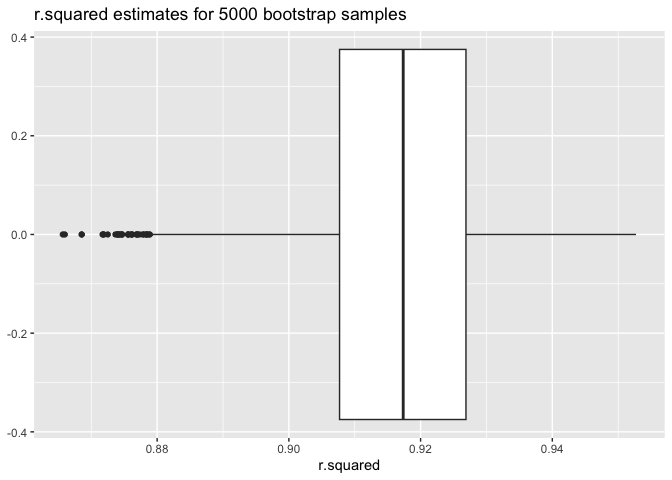
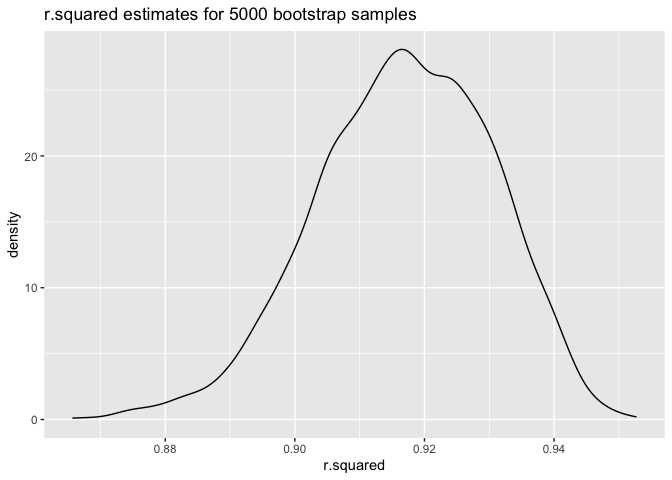
Finished revision and modified plots.

diff --git a/p8105_hw6_mf3593.md b/p8105_hw6_mf3593.md
@@ -79,15 +79,7 @@ weather_df =
     tmin = tmin / 10,
     tmax = tmax / 10) |>
   select(name, id, everything())
-```
 
-    ## using cached file: /Users/miaofu/Library/Caches/org.R-project.R/R/rnoaa/noaa_ghcnd/USW00094728.dly
-
-    ## date created (size, mb): 2023-11-28 15:42:24.980694 (8.544)
-
-    ## file min/max dates: 1869-01-01 / 2023-11-30
-
-``` r
 boot_sample = function(df) {
   sample_frac(df, replace = TRUE)
 }
@@ -109,17 +101,7 @@ log_multiple=boot_straps|>
   filter(term %in% c("tmin","prcp"))|>
   group_by(strap_number)|>
   summarise(log_b1_b2=log(prod(estimate)))
-```
 
-    ## Warning: There were 3361 warnings in `summarise()`.
-    ## The first warning was:
-    ## ℹ In argument: `log_b1_b2 = log(prod(estimate))`.
-    ## ℹ In group 2: `strap_number = 2`.
-    ## Caused by warning in `log()`:
-    ## ! NaNs produced
-    ## ℹ Run `dplyr::last_dplyr_warnings()` to see the 3360 remaining warnings.
-
-``` r
 log_multiple|>
   summarise(count=sum(is.na(log_b1_b2)),
             n=n(),
@@ -143,14 +125,10 @@ R=boot_straps|>
 
 combined=R|>
   full_join(log_multiple)
-```
 
-    ## Joining with `by = join_by(strap_number)`
-
-``` r
 combined|>
   ggplot(aes(x=r.squared))+
-  geom_boxplot()+
+  geom_density()+
   labs(
     title="r.squared estimates for 5000 bootstrap samples"
   )
@@ -161,13 +139,11 @@ combined|>
 ``` r
 combined|>
   ggplot(aes(x=log_b1_b2))+
-  geom_boxplot()+
+  geom_density()+
   labs(
     title="log(beta1*beta2) estimates for 5000 bootstrap samples"
   )
 ```
-
-    ## Warning: Removed 3361 rows containing non-finite values (`stat_boxplot()`).
 
 ![](p8105_hw6_mf3593_files/figure-gfm/unnamed-chunk-2-2.png)<!-- -->
 
@@ -176,19 +152,18 @@ quantile_r=quantile(pull(combined,r.squared),c(0.025,0.975))
 quantile_log=quantile(pull(combined,log_b1_b2),c(0.025,0.975),na.rm=TRUE)
 ```
 
-The distribution of $\hat r^2$ has median around 0.92 and is
-left-tailed. There are some outliers with too small r.squared value.
-Since majority of the data has r_squared value closer to 1, indicating
-that tmin and prcp well explained the proportion of variance in tmax.
-The distribution of $log(\hat {\beta_1}\cdot\hat {\beta_2})$ has median
-aroung -6 and is left-tailed with some outliers that are too small.
-There are 3361 NaN values due to negative products of $\beta_1$ and
-$\beta_2$ corresponding to a portion of 67% of the entire 5000 bootstrap
-samples. Using the remaining estimates, we see all of the log values are
-negative, implying the estimated product of the coefficients is less
-than 1. The negative interaction suggests that the join effect of tmin
-and prcp on tmax is smaller than the product of their individual
-effects.
+The distribution of $\hat r^2$ has peak around 0.92 and is left-tailed.
+Since majority of the data has r_squared value closer to 1 and the 95%
+CI for r_squared is (0.889,0.941), indicating that tmin and prcp well
+explained the proportion of variance in tmax. The distribution of
+$log(\hat {\beta_1}\cdot\hat {\beta_2})$ has peak around -6 and is
+left-tailed. There are 3361 NaN values due to negative products of
+$\beta_1$ and $\beta_2$ corresponding to a portion of 67% of the entire
+5000 bootstrap samples. Using the remaining estimates, we see all of the
+log values are negative and the 95% CI for log_b1_b2 is (-8.98,-4.6),
+implying the estimated product of the coefficients is less than 1. The
+negative interaction suggests that the join effect of tmin and prcp on
+tmax is smaller than the product of their individual effects.
 
 ## Problem 3
 
@@ -225,22 +200,31 @@ child_bw=read.csv("birthweight.csv")|>
       9~"Unknown"
     )
   )|>
-  na.omit(df)
+  na.omit(df)|>
+  mutate(
+    babysex=as.factor(babysex),
+    frace=as.factor(frace),
+    malform=as.factor(malform),
+    mrace=as.factor(mrace)
+  )
 ```
 
 I would propose a multiple linear regression model for birth weight.  
-Hypothesis: Child birthweight is affected by babysex, gestational age in
-weeks, and presence of malformations that could affect weight.
+Hypothesis: Child birth weight is affected by babysex, gestational age
+in weeks, and presence of malformations that could affect weight.
 
 ``` r
 linear_mod = lm(bwt ~ babysex+gaweeks+malform, data = child_bw)
 child_bw |> 
   add_predictions(linear_mod) |> 
   add_residuals(linear_mod)|>
-  ggplot(aes(x = gaweeks, y = bwt,color=malform)) + 
-  geom_point() +
-  facet_wrap(~babysex,scale="free")+
-  geom_line(aes(y = pred), color = "blue")
+  ggplot(aes(x = pred, y = resid)) + 
+  geom_point()+
+  labs(
+    title="Residuals against fitted values",
+    x="fitted values",
+    y="residuals"
+  )
 ```
 
 ![](p8105_hw6_mf3593_files/figure-gfm/unnamed-chunk-4-1.png)<!-- -->
@@ -248,7 +232,7 @@ child_bw |>
 Based on the variables, I think babysex, gestational age and
 malformations that may affect baby birth weight are potential predictors
 for the baby birth weight. Thus, I made a multiple linear regression
-model with gestational age on x-axis and baby birthweight on y-axis.
+model using those as predictors.
 
 ``` r
 set.seed(2)
@@ -266,7 +250,7 @@ cv_df =
   mutate(
     my_mod  = map(train, \(df) lm(bwt ~ babysex+gaweeks+malform, data = df)),
     alt_mod_1  = map(train, \(df) lm(bwt ~ blength+gaweeks, data=df)),
-    alt_mod_2  = map(train, \(df) lm(bwt ~ bhead+blength+babysex+bhead*blength*babysex, data=df))) |> 
+    alt_mod_2  = map(train, \(df) lm(bwt ~ bhead*blength*babysex, data=df))) |> 
   mutate(
     rmse_my_mod = map2_dbl(.x=my_mod, .y=test, ~rmse(model = .x, data = .y)),
     rmse_alt_mod_1 = map2_dbl(.x=alt_mod_1, .y=test, ~rmse(model = .x, data = .y)),
@@ -287,4 +271,8 @@ cv_df |>
 
 According to the cross validation, alternative model 2 which is “model
 using head circumference, length, sex, and all interactions (including
-the three-way interaction) between these” is the best model.
+the three-way interaction) between these” is the best model. Alternative
+model 2 has the smallest rmse which means it provides the most accurate
+predictions compared to my model and alternative model 1. However,
+alternative model 2 also has a wide span, which means that its
+performance is variable across different folds or datasets.
